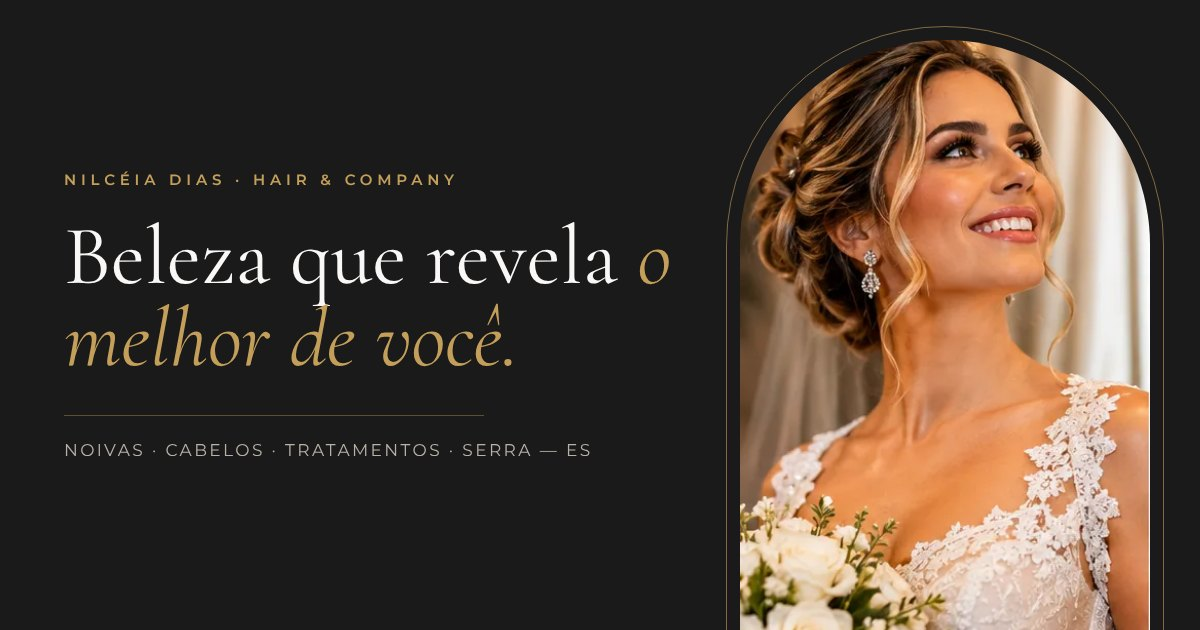
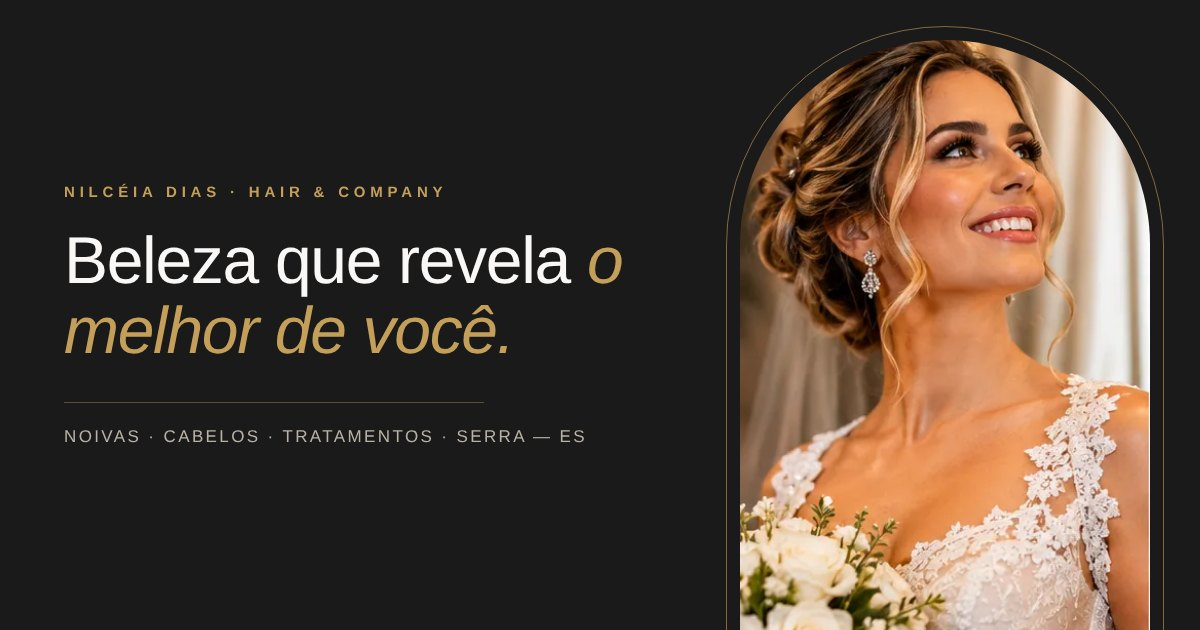
Switch nilceia-dias typography to Arial
Arial for headings and body, with Arimo (metric-compatible, open
licence) as a webfont fallback for Android, which has no Arial.
Heading sizes rescaled for the wider sans-serif; OG image, touch
icon and favicon regenerated; font preloads dropped.

Claude-Session: https://claude.ai/code/session_01HFhdEVyC5WBCRokW6wJXnL

Changed region(s): [[0.0308, 0.3619, 0.555, 0.6032], [0.0617, 0.6333, 0.4933, 0.7238], [0.0308, 0.2714, 0.37, 0.3317]]

diff --git a/nilceia-dias/src/index.css b/nilceia-dias/src/index.css
@@ -1,11 +1,11 @@
 @import 'tailwindcss';
-@import '@fontsource-variable/cormorant-garamond/wght.css';
-@import '@fontsource-variable/cormorant-garamond/wght-italic.css';
-@import '@fontsource-variable/montserrat/wght.css';
+/* Arial em todo o site. Android não tem Arial instalada: lá entra a Arimo,
+   fonte livre com as mesmas medidas da Arial, baixada só se a Arial faltar. */
+@import '@fontsource-variable/arimo/wght.css';
 
 @theme {
-  --font-sans: 'Montserrat Variable', ui-sans-serif, system-ui, -apple-system, 'Segoe UI', sans-serif;
-  --font-display: 'Cormorant Garamond Variable', 'Cormorant Garamond', ui-serif, Georgia, serif;
+  --font-sans: Arial, 'Arimo Variable', 'Liberation Sans', Helvetica, sans-serif;
+  --font-display: Arial, 'Arimo Variable', 'Liberation Sans', Helvetica, sans-serif;
 
   --color-paper: #f9f8f6;
   --color-onyx: #1a1a1a;
@@ -63,7 +63,7 @@
 @utility display {
   font-family: var(--font-display);
   font-weight: 400;
-  letter-spacing: -0.01em;
+  letter-spacing: -0.025em;
   text-wrap: balance;
   font-variant-numeric: lining-nums;
 }
@@ -91,16 +91,16 @@
     @apply h-px w-7 bg-gold;
   }
   .h-hero {
-    @apply display text-[2.75rem] leading-[0.98] sm:text-6xl lg:text-[5.4rem];
+    @apply display text-[2.3rem] leading-[1.05] sm:text-[3.2rem] lg:text-[4.3rem];
   }
   .h-section {
-    @apply display text-[2.25rem] leading-[1.04] sm:text-5xl lg:text-[3.6rem];
+    @apply display text-[1.9rem] leading-[1.1] sm:text-[2.5rem] lg:text-[2.95rem];
   }
   .h-card {
-    @apply display text-[1.75rem] leading-[1.1] sm:text-[2rem];
+    @apply display text-[1.45rem] leading-[1.2] sm:text-[1.65rem];
   }
   .accent {
-    @apply font-display italic;
+    @apply font-display;
     color: var(--color-gold-ink);
   }
   .on-dark .accent {

diff --git a/nilceia-dias/src/components/About.tsx b/nilceia-dias/src/components/About.tsx
@@ -21,11 +21,11 @@ export function About({ intent }: { intent: Intent }) {
               <span className="absolute inset-4 border border-gold/40" aria-hidden="true" />
               {facts.years.show ? (
                 <>
-                  <span className="display text-[9rem] leading-[0.8] sm:text-[11rem]">{facts.years.value}</span>
+                  <span className="display text-[7rem] leading-[0.85] sm:text-[8.5rem]">{facts.years.value}</span>
                   <span className="mt-4 text-[0.7rem] font-semibold tracking-[0.3em] text-gold-ink uppercase">{facts.years.label}</span>
                 </>
               ) : (
-                <span className="display text-[4rem] italic">ND</span>
+                <span className="display text-[3.4rem]">ND</span>
               )}
             </div>
           )}
@@ -37,7 +37,7 @@ export function About({ intent }: { intent: Intent }) {
             Experiência que se traduz <em className="accent">em cuidado.</em>
           </h2>
           <blockquote className="reveal mt-8">
-            <p className="display text-[1.5rem] leading-[1.45] text-onyx sm:text-[1.75rem]">
+            <p className="display text-[1.25rem] leading-[1.5] text-onyx sm:text-[1.45rem]">
               “São anos dedicados à beleza, ao cuidado e aos momentos especiais de tantas mulheres. Acredito que cada atendimento deve
               respeitar a individualidade de cada cliente, valorizando suas preferências e entendendo o que realmente procura.”
             </p>

diff --git a/nilceia-dias/src/components/Proof.tsx b/nilceia-dias/src/components/Proof.tsx
@@ -22,7 +22,7 @@ export function Proof() {
             className="group block border-t border-onyx pt-8"
           >
             <div className="flex items-end gap-5">
-              <span className="display text-[5.5rem] leading-[0.8] sm:text-[7rem]">{brand.casamentos.rating}</span>
+              <span className="display text-[4.4rem] leading-[0.85] sm:text-[5.6rem]">{brand.casamentos.rating}</span>
               <span aria-hidden="true" className="mb-2 flex gap-1 text-gold">
                 {Array.from({ length: 5 }, (_, i) => (
                   <svg key={i} viewBox="0 0 20 20" className="size-4"><path fill="currentColor" d="m10 1.5 2.6 5.6 6.1.7-4.5 4.2 1.2 6L10 15l-5.4 3 1.2-6-4.5-4.2 6.1-.7Z" /></svg>
@@ -42,7 +42,7 @@ export function Proof() {
             {reviews.map((r) => (
               <li key={r.author + r.text.slice(0, 20)} className="reveal border-t border-line pt-6">
                 <blockquote>
-                  <p className="display text-[1.35rem] leading-snug">“{r.text}”</p>
+                  <p className="display text-[1.15rem] leading-snug">“{r.text}”</p>
                   <footer className="mt-4 text-[0.72rem] font-semibold tracking-[0.16em] text-muted uppercase">
                     {r.author} · {r.source}
                     {r.date ? ` · ${r.date}` : ''}

diff --git a/nilceia-dias/src/components/Hero.tsx b/nilceia-dias/src/components/Hero.tsx
@@ -34,12 +34,12 @@ export function Hero({ page }: { page: PageConfig }) {
               {proofs.map((f, i) => (
                 <div key={f.label} className={`flex flex-col ${i > 0 ? 'border-l border-line pl-6 sm:pl-10' : ''}`}>
                   <dt className="order-2 mt-1 text-[0.68rem] font-semibold tracking-[0.18em] text-muted uppercase">{f.label}</dt>
-                  <dd className="display order-1 text-[2.4rem] leading-none sm:text-5xl">{f.value}</dd>
+                  <dd className="display order-1 text-[2rem] leading-none sm:text-[2.6rem]">{f.value}</dd>
                 </div>
               ))}
               <div className="hidden flex-col border-l border-line pl-10 sm:flex">
                 <dt className="order-2 mt-1 text-[0.68rem] font-semibold tracking-[0.18em] text-muted uppercase">no Casamentos.com.br</dt>
-                <dd className="display order-1 text-5xl leading-none">{brand.casamentos.rating}</dd>
+                <dd className="display order-1 text-[2.6rem] leading-none">{brand.casamentos.rating}</dd>
               </div>
             </dl>
           )}

diff --git a/nilceia-dias/src/components/Brides.tsx b/nilceia-dias/src/components/Brides.tsx
@@ -32,7 +32,7 @@ export function Brides() {
             />
             {facts.brides.show && (
               <div className="absolute right-0 -bottom-6 bg-paper px-6 py-5 text-onyx sm:-right-6">
-                <p className="display text-[2.6rem] leading-none">{facts.brides.value}</p>
+                <p className="display text-[2.2rem] leading-none">{facts.brides.value}</p>
                 <p className="mt-1 text-[0.62rem] font-semibold tracking-[0.2em] text-muted uppercase">{facts.brides.label}</p>
               </div>
             )}
@@ -52,7 +52,7 @@ export function Brides() {
           <ul className="mt-10 grid gap-x-10 sm:grid-cols-2">
             {POINTS.map((pt) => (
               <li key={pt.title} className="reveal border-t border-gold/25 py-6">
-                <h3 className="display text-[1.45rem] leading-tight text-paper">{pt.title}</h3>
+                <h3 className="display text-[1.2rem] leading-tight text-paper">{pt.title}</h3>
                 <p className="mt-2 text-[0.95rem] text-muted-dark">{pt.text}</p>
               </li>
             ))}

diff --git a/nilceia-dias/src/components/ConsentBanner.tsx b/nilceia-dias/src/components/ConsentBanner.tsx
@@ -39,7 +39,7 @@ export function ConsentBanner() {
 
   return (
     <div role="dialog" aria-modal="false" aria-labelledby="cookies-titulo" className="fixed inset-x-3 bottom-3 z-50 border border-line bg-paper p-5 shadow-[0_20px_50px_-20px_rgb(26_26_26/0.45)] sm:inset-x-auto sm:right-6 sm:bottom-6 sm:max-w-md sm:p-6">
-      <h2 id="cookies-titulo" className="display text-[1.4rem] leading-tight">Sua privacidade</h2>
+      <h2 id="cookies-titulo" className="display text-[1.2rem] leading-tight">Sua privacidade</h2>
       <p className="mt-2 text-sm text-muted">
         Usamos cookies para medir o desempenho do site e dos anúncios. Nenhum dado de contato é compartilhado. Você pode escolher o que
         autoriza. <a href="/privacidade/" className="underline underline-offset-2">Saiba mais</a>.

diff --git a/nilceia-dias/src/components/FAQ.tsx b/nilceia-dias/src/components/FAQ.tsx
@@ -22,7 +22,7 @@ export function FAQ() {
               onToggle={(e) => (e.currentTarget as HTMLDetailsElement).open && track('faq_open', { faq_index: i + 1 }, { once: `faq-${i}` })}
             >
               <summary className="flex min-h-16 cursor-pointer list-none items-center justify-between gap-6 py-5 [&::-webkit-details-marker]:hidden">
-                <span className="display text-[1.35rem] leading-snug sm:text-[1.55rem]">{f.question}</span>
+                <span className="display text-[1.1rem] leading-snug sm:text-[1.25rem]">{f.question}</span>
                 <Plus aria-hidden="true" strokeWidth={1.25} className="size-5 shrink-0 text-gold-ink transition-transform duration-300 group-open:rotate-45" />
               </summary>
               <div className="pb-7">

diff --git a/nilceia-dias/src/components/Steps.tsx b/nilceia-dias/src/components/Steps.tsx
@@ -18,7 +18,7 @@ export function Steps({ intent }: { intent: Intent }) {
         <ol className="mt-14 grid gap-0 lg:grid-cols-3">
           {STEPS.map((s, i) => (
             <li key={s.n} className={`reveal border-t border-gold/25 py-8 lg:py-10 ${i > 0 ? 'lg:border-l lg:pl-10' : 'lg:pr-10'}`} style={{ transitionDelay: `${i * 90}ms` }}>
-              <span className="display text-[3.2rem] leading-none text-gold">{s.n}</span>
+              <span className="display text-[2.6rem] leading-none text-gold">{s.n}</span>
               <h3 className="mt-5 text-[0.8rem] font-semibold tracking-[0.18em] text-paper uppercase">{s.title}</h3>
               <p className="mt-3 max-w-xs text-muted-dark">{s.text}</p>
             </li>

diff --git a/nilceia-dias/src/components/ui.tsx b/nilceia-dias/src/components/ui.tsx
@@ -58,7 +58,7 @@ export function DirectionsLink({ source, className, children }: { source: string
 export function Wordmark({ dark = false, compact = false }: { dark?: boolean; compact?: boolean }) {
   return (
     <span className="flex flex-col leading-none">
-      <span className={`font-display ${compact ? 'text-[1.45rem]' : 'text-[1.7rem]'} tracking-[0.01em] ${dark ? 'text-champagne' : 'text-onyx'}`}>
+      <span className={`font-display ${compact ? 'text-[1.2rem]' : 'text-[1.4rem]'} tracking-[-0.01em] ${dark ? 'text-champagne' : 'text-onyx'}`}>
         Nilcéia Dias
       </span>
       <span className={`mt-1 text-[0.56rem] font-semibold tracking-[0.42em] uppercase ${dark ? 'text-gold' : 'text-gold-ink'}`}>

diff --git a/nilceia-dias/src/components/Authority.tsx b/nilceia-dias/src/components/Authority.tsx
@@ -16,7 +16,7 @@ export function Authority() {
           {items.map((it, i) => {
             const body = (
               <>
-                <span className="display block text-[2.6rem] leading-none text-paper sm:text-[3.4rem]">{it.value}</span>
+                <span className="display block text-[2.1rem] leading-none text-paper sm:text-[2.8rem]">{it.value}</span>
                 <span className="mt-2 flex items-start gap-1 text-[0.66rem] leading-snug font-semibold tracking-[0.18em] text-muted-dark uppercase">
                   {it.label}
                   {it.href?.startsWith('http') && <ArrowUpRight aria-hidden="true" strokeWidth={1.5} className="size-3 shrink-0 text-gold" />}

diff --git a/nilceia-dias/src/components/Gallery.tsx b/nilceia-dias/src/components/Gallery.tsx
@@ -114,7 +114,7 @@ export function Gallery() {
           </ul>
         ) : (
           <div className="reveal mt-12 grid gap-6 border border-line p-7 sm:p-10 lg:grid-cols-12 lg:items-center">
-            <p className="display text-[1.6rem] leading-snug lg:col-span-8 sm:text-[1.9rem]">
+            <p className="display text-[1.3rem] leading-snug lg:col-span-8 sm:text-[1.55rem]">
               Os trabalhos reais da Nilcéia, de produções de noivas a cortes e penteados, ficam reunidos no Instagram do salão.
             </p>
             <div className="lg:col-span-4 lg:text-right">

diff --git a/nilceia-dias/src/components/Header.tsx b/nilceia-dias/src/components/Header.tsx
@@ -97,7 +97,7 @@ export function Header({ page }: { page: PageConfig }) {
                 <li key={l.id}>
                   <a href={l.href} onClick={() => setOpen(false)} className="flex min-h-16 items-baseline gap-4 py-4">
                     <span className="text-[0.7rem] font-semibold tracking-[0.2em] text-gold-ink">0{i + 1}</span>
-                    <span className="display text-[2rem] leading-none">{l.label}</span>
+                    <span className="display text-[1.7rem] leading-none">{l.label}</span>
                   </a>
                 </li>
               ))}
